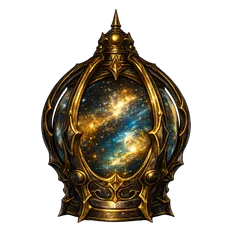
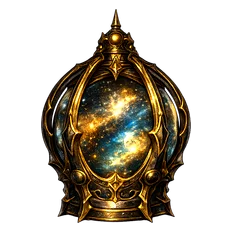
v0.28.2 Sichtbarkeit der Insignien: heller gebacken (+16%), gelb-weisser Schein ueberall, Dock/Chips/Splitter/Brettstern groesser; Schatzkammer ohne Glasur-Schleier, Fast-Weiss-Konturen auf ruhiges Gold; Brett-Glanz zieht als breites Band uebers Ganze

diff --git a/src/app/ui/icons.jsx b/src/app/ui/icons.jsx
@@ -54,8 +54,9 @@ export function NavIcon({ id, color = "#a9a48e", size = 22 }) {
   const on = color === T.gold;
   return <img src={NAV_ART[id] || NAV_PLAY} alt="" aria-hidden draggable={false}
     style={{ width: size, height: size, display: "block", objectFit: "contain",
-      filter: on ? "drop-shadow(0 1px 2px rgba(0,0,0,.45))"
-                 : "grayscale(.9) brightness(.82) opacity(.72) drop-shadow(0 1px 2px rgba(0,0,0,.45))" }} />;
+      transform: "scale(1.12)", transformOrigin: "center",
+      filter: on ? "drop-shadow(0 0 5px rgba(246,222,150,.65)) drop-shadow(0 1px 2px rgba(0,0,0,.45))"
+                 : "grayscale(.85) brightness(.88) opacity(.78) drop-shadow(0 0 3px rgba(246,222,150,.3)) drop-shadow(0 1px 2px rgba(0,0,0,.45))" }} />;
 }
 
 // ── Currency v3 — an order star and a crowned coin, drawn as insignia rather
@@ -83,14 +84,16 @@ export function EnergyIc({ size = 18, style }) {
 
 export function SkillStar({ size = 18, style }) {
   return <img src={IC_SKILL} alt="" aria-hidden draggable={false}
-    style={{ width: size, height: size, display: "inline-block", verticalAlign: "-0.14em",
-      objectFit: "contain", ...style }} />;
+    style={{ width: size, height: size, display: "inline-block", verticalAlign: "-0.16em",
+      transform: "scale(1.18)", transformOrigin: "center", objectFit: "contain",
+      filter: "drop-shadow(0 0 4px rgba(246,222,150,.55)) drop-shadow(0 1px 1px rgba(0,0,0,.4))", ...style }} />;
 }
 
 export function GoldCoin({ size = 18, style, shine = false }) {
   return <img src={IC_COIN} alt="" aria-hidden draggable={false}
-    style={{ width: size, height: size, display: "inline-block", verticalAlign: "-0.14em",
-      objectFit: "contain", ...style }} />;
+    style={{ width: size, height: size, display: "inline-block", verticalAlign: "-0.16em",
+      transform: "scale(1.18)", transformOrigin: "center", objectFit: "contain",
+      filter: "drop-shadow(0 0 4px rgba(246,222,150,.55)) drop-shadow(0 1px 1px rgba(0,0,0,.4))", ...style }} />;
 }
 
 // ── small in-house UI glyphs (v0.19): every icon drawn, no emoji anywhere ────
@@ -229,14 +232,15 @@ const G = ({ id }) => (
   </defs>
 );
 const drop = { filter: "drop-shadow(0 1px 1.5px rgba(0,0,0,.55))" };
+const glowDrop = { filter: "drop-shadow(0 0 5px rgba(246,222,150,.6)) drop-shadow(0 1px 1.5px rgba(0,0,0,.55))" };
 
-export function CoinIc({ size = 15 }) {
+export function CoinIc({ size = 18 }) {
   return <img src={IC_COIN} alt="" aria-hidden draggable={false}
-    style={{ width: size, height: size, display: "block", objectFit: "contain", ...drop }} />;
+    style={{ width: size, height: size, display: "block", objectFit: "contain", ...glowDrop }} />;
 }
-export function SkillIc({ size = 15 }) {
+export function SkillIc({ size = 18 }) {
   return <img src={IC_SKILL} alt="" aria-hidden draggable={false}
-    style={{ width: size, height: size, display: "block", objectFit: "contain", ...drop }} />;
+    style={{ width: size, height: size, display: "block", objectFit: "contain", ...glowDrop }} />;
 }
 export function LevelIc({ size = 15 }) {
   return <svg width={size} height={size} viewBox="0 0 22 22" aria-hidden style={{ display: "block", ...drop }}>
@@ -251,9 +255,9 @@ export function LevelIc({ size = 15 }) {
     <path d="M3.2 17.6 L3.2 8.4 L7.6 11.6 L11 4.6 L14.4 11.6 L18.8 8.4 L18.8 17.6 Z" fill="url(#ggLvls)" />
   </svg>;
 }
-export function CrestIc({ size = 15 }) {
+export function CrestIc({ size = 18 }) {
   return <img src={IC_CREST} alt="" aria-hidden draggable={false}
-    style={{ width: size, height: size, display: "block", objectFit: "contain", ...drop }} />;
+    style={{ width: size, height: size, display: "block", objectFit: "contain", ...glowDrop }} />;
 }
 
 /** A folded field map with a waypin — hand-drawn, house gold. */
@@ -405,7 +409,7 @@ export function HourglassGIc({ size = 16 }) {
   </svg>;
 }
 /** A fallen foe's skull, gilded. */
-export function GoldSkullIc({ size = 16 }) {
+export function GoldSkullIc({ size = 19 }) {
   return <img src={IC_SKULL} alt="" aria-hidden draggable={false}
-    style={{ width: size, height: size, display: "block", objectFit: "contain", ...drop }} />;
+    style={{ width: size, height: size, display: "block", objectFit: "contain", ...glowDrop }} />;
 }

diff --git a/src/app/ui/screens/AchievementsScreen.jsx b/src/app/ui/screens/AchievementsScreen.jsx
@@ -98,10 +98,10 @@ export function AchievementsScreen({ profile, dispatch, t, initialOpenId = null 
           // frame rather than a rim of gold.
           padding: ready ? 19 : 16,
           background: "linear-gradient(160deg, rgba(96,74,34,.62), rgba(28,21,11,.95) 62%)",
-          border: `2px solid ${ready ? "#f8ecc0" : "rgba(246,228,162,.78)"}`,
+          border: `1.5px solid ${ready ? "rgba(240,214,138,.8)" : "rgba(214,176,96,.5)"}`,
           boxShadow: ready
-            ? "inset 0 1px 0 rgba(255,248,214,.4), inset 0 0 0 1px rgba(255,240,190,.3), 0 0 30px rgba(240,214,138,.4), " + T.shadow
-            : "inset 0 1px 0 rgba(255,248,214,.28), inset 0 0 0 1px rgba(255,240,190,.16), 0 0 20px rgba(240,214,138,.22), " + T.shadow }}>
+            ? "inset 0 1px 0 rgba(255,248,214,.18), 0 0 26px rgba(240,214,138,.32), " + T.shadow
+            : "inset 0 1px 0 rgba(255,248,214,.1), 0 0 16px rgba(240,214,138,.16), " + T.shadow }}>
           {/* THE GLEAM NOW MOVES: it used to be a fixed band painted across the
               plate. Tapping a plate sends it sweeping once, left to right —
               gold catching the light as the card turns. The key on the wrapper
@@ -144,28 +144,23 @@ export function AchievementsScreen({ profile, dispatch, t, initialOpenId = null 
             // painting now stands at full strength on every plate; what is
             // earned is told by the bar, the diamonds and the tally.
             background: "radial-gradient(circle at 32% 28%, rgba(240,214,138,.5), rgba(36,28,14,.96) 70%)",
-            border: isOpen ? "3px solid #fff6d8" : "2.5px solid #f6e4a2",
+            border: isOpen ? "2.5px solid #e9cf8a" : "2px solid #d9b565",
             boxShadow: isOpen
-              ? "0 0 34px rgba(255,240,190,.75), 0 2px 6px rgba(0,0,0,.6), inset 0 2px 4px rgba(255,252,236,.7)"
-              : "0 0 16px rgba(240,214,138,.55), 0 1px 3px rgba(0,0,0,.55), inset 0 1px 2px rgba(255,250,228,.55)" }}>
+              ? "0 0 30px rgba(255,240,190,.6), 0 2px 6px rgba(0,0,0,.6), inset 0 1px 2px rgba(255,252,236,.3)"
+              : "0 0 14px rgba(240,214,138,.45), 0 1px 3px rgba(0,0,0,.55), inset 0 1px 1px rgba(255,250,228,.25)" }}>
             {ACH_ART[it.id]
               ? <img src={ACH_ART[it.id]} alt="" draggable={false} decoding="async"
                   style={{ width: "100%", height: "100%", objectFit: "cover", display: "block",
                     // the paintings came out of the forge a shade dim for a
                     // treasury: lifted, warmed and given a touch more gold
                     filter: isOpen
-                      ? "brightness(1.5) saturate(1.34) contrast(1.08) sepia(.2)"
-                      : "brightness(1.28) saturate(1.22) sepia(.14)" }} />
+                      ? "brightness(1.58) saturate(1.3) contrast(1.1) sepia(.14)"
+                      : "brightness(1.38) saturate(1.22) contrast(1.06) sepia(.1)" }} />
               : <AchIcon id={it.id} color={isOpen ? "#fff6d8" : "#f6e4a2"} size={isOpen ? 52 : 28} />}
-            {/* A GLAZE OF GOLD over the painting: a warm wash lifts it into the
-                treasury's own metal, and a soft highlight rides the upper left
-                where the candle stands — the plate reads as polished, not flat. */}
-            <span aria-hidden style={{ position: "absolute", inset: 0, borderRadius: "50%", pointerEvents: "none",
-              background: "radial-gradient(circle at 30% 24%, rgba(255,248,214,.42), rgba(255,226,150,.14) 42%, rgba(120,84,20,.16) 78%, rgba(60,40,10,.28) 100%)",
-              mixBlendMode: "screen", opacity: isOpen ? 0.95 : 0.7 }} />
-            <span aria-hidden style={{ position: "absolute", inset: 0, borderRadius: "50%", pointerEvents: "none",
-              background: "linear-gradient(150deg, rgba(255,252,236,.5) 4%, rgba(255,252,236,0) 34%)",
-              opacity: isOpen ? 0.8 : 0.55 }} />
+            {/* NO GLAZE ANY MORE. The gold wash and the corner light that used
+                to ride ON TOP of the painting read as a milky film — the
+                emblems looked veiled. The paintings now stand bare and clear;
+                brightness lives in the image filter alone. */}
           </div>
           </div>
           <div style={{ flex: 1, minWidth: 0 }}>

diff --git a/src/app/App.jsx b/src/app/App.jsx
@@ -323,7 +323,7 @@ export default function App() {
         borderRadius: 14, cursor: "pointer", fontFamily: "inherit",
         padding: wide ? "11px 14px" : "9px 4px 8px", color: on ? T.goldBright : T.faint,
         transition: "background .18s, color .18s" }}>
-        <NavIcon id={tb.id} color={on ? T.gold : T.faint} size={wide ? 21 : 22} />
+        <NavIcon id={tb.id} color={on ? T.gold : T.faint} size={wide ? 25 : 26} />
         <span className="gg-serif" style={{ fontSize: wide ? 13 : 9.5, fontWeight: 700, marginTop: wide ? 0 : 3,
           letterSpacing: ".09em", textTransform: "uppercase" }}>{t(tb.key)}</span>
         {badge && <span style={{ position: "absolute", top: wide ? 7 : 4, right: wide ? 8 : "calc(50% - 17px)",
@@ -338,13 +338,13 @@ export default function App() {
     <span title={title} className="gg-serif" style={{ display: "inline-flex", alignItems: "center", gap: 6, padding: "5px 10px",
       borderRadius: 10, background: "linear-gradient(172deg, rgba(240,206,122,.13), rgba(240,206,122,.05))",
       border: "1px solid rgba(214,176,96,.5)", boxShadow: "inset 0 0.5px 0 rgba(255,243,196,.35), 0 1px 4px rgba(0,0,0,.35)",
-      color: T.goldBright, fontSize: 12.5, fontWeight: 700, letterSpacing: ".04em", whiteSpace: "nowrap",
+      color: T.goldBright, fontSize: 13.5, fontWeight: 700, letterSpacing: ".04em", whiteSpace: "nowrap",
       fontVariantNumeric: "tabular-nums" }}>{icon} {val}</span>
   );
   const currencyRow = (
     <div style={{ display: "flex", flexWrap: "wrap", gap: 6, flex: "0 0 auto", alignItems: "center", justifyContent: "flex-end" }}>
-      {coinChip(<CoinIc />, profile.gold || 0, t("army.balance"))}
-      {coinChip(<CrestIc />, retinueScore(profile), t("online.score"))}
+      {coinChip(<CoinIc size={20} />, profile.gold || 0, t("army.balance"))}
+      {coinChip(<CrestIc size={20} />, retinueScore(profile), t("online.score"))}
     </div>
   );
   const headerBar = (

diff --git a/test_ui.jsx b/test_ui.jsx
@@ -233,7 +233,10 @@ const star = (m) => m.includes(IC_SPELLSTAR.slice(40, 104));
   // the picture showed at all.
   ok("no emblem is greyed or dimmed", !bare.includes("grayscale") && !rich.includes("grayscale"));
   ok("every emblem is drawn at full strength", (bare.match(/<img/g) || []).length >= 14);
-  ok("the rim is drawn strongly enough to read", bare.includes("2.5px solid #f6e4a2"));
+  // the rim was tamed on request: quiet gold instead of near-white — it must
+  // still be there, just no longer shouting
+  ok("the rim is drawn strongly enough to read", bare.includes("2px solid #d9b565"));
+  ok("the near-white rim is gone for good", !bare.includes("#f6e4a2") && !bare.includes("#fff6d8"));
 }
 
 // ── 10. THE CHRONICLE ───────────────────────────────────────────────────────

diff --git a/src/app/ui/board/BoardView.jsx b/src/app/ui/board/BoardView.jsx
@@ -546,8 +546,8 @@ export function BoardView({ state, onMove, interactive, lastMove, theme = null, 
             <div style={{ position: "absolute", left: "-60%", top: "-60%", width: "220%", height: "220%",
               "--sx0": `${(-wave.dx * 55).toFixed(1)}%`, "--sy0": `${(wave.dy * 55).toFixed(1)}%`,
               "--sx1": `${(wave.dx * 55).toFixed(1)}%`, "--sy1": `${(-wave.dy * 55).toFixed(1)}%`,
-              background: `linear-gradient(${g.toFixed(0)}deg, transparent 42%, rgba(242,217,140,.04) 47%, rgba(242,217,140,.10) 50%, rgba(242,217,140,.04) 53%, transparent 58%)`,
-              animation: "ggSweep 3.6s ease-in-out both" }} />
+              background: `linear-gradient(${g.toFixed(0)}deg, transparent 18%, rgba(242,217,140,.05) 34%, rgba(242,217,140,.13) 50%, rgba(242,217,140,.05) 66%, transparent 82%)`,
+              animation: "ggSweep 4.6s ease-in-out both" }} />
           </div>;
         })()}
       </div>

diff --git a/src/app/ui/screens/ArmyScreen.jsx b/src/app/ui/screens/ArmyScreen.jsx
@@ -971,7 +971,7 @@ function GearPanel({ profile, dispatch, t, en, initialGearInfo = null }) {
           // a ware like any other now — what is special about it (the ration
           // per chapter) is said in its sheet, where it belongs.
           return <div onClick={() => setGearInfo("shard")} style={{ display: "flex", alignItems: "center", gap: 10, cursor: "pointer" }}>
-            <span style={{ width: 24, display: "grid", placeItems: "center" }}><img src={imgShard} alt="" aria-hidden draggable={false} style={{ width: 22, height: 22, objectFit: "contain", display: "block", filter: "drop-shadow(0 1px 2px rgba(0,0,0,.45))" }} /></span>
+            <span style={{ width: 26, display: "grid", placeItems: "center" }}><img src={imgShard} alt="" aria-hidden draggable={false} style={{ width: 24, height: 24, objectFit: "contain", display: "block", filter: "drop-shadow(0 0 5px rgba(246,222,150,.55)) drop-shadow(0 1px 2px rgba(0,0,0,.45))" }} /></span>
             <div style={{ flex: 1, minWidth: 0 }}>
               <div style={{ fontSize: 13, fontWeight: 800 }}>
                 {en ? "Star shard" : "Sternensplitter"}
@@ -1048,7 +1048,7 @@ function GearPanel({ profile, dispatch, t, en, initialGearInfo = null }) {
             background: `linear-gradient(172deg, ${T.panel2}, ${T.panel})`, border: "1px solid rgba(233,210,150,.42)",
             boxShadow: "0 18px 50px rgba(0,0,0,.6)" }}>
             <div style={{ display: "grid", placeItems: "center", marginBottom: 10 }}>
-              {shard ? <img src={imgShard} alt="" aria-hidden draggable={false} style={{ width: 116, height: 116, objectFit: "contain", display: "block", filter: "drop-shadow(0 2px 5px rgba(0,0,0,.5))" }} /> : <ItemIcon id={it.id} size={116} />}
+              {shard ? <img src={imgShard} alt="" aria-hidden draggable={false} style={{ width: 124, height: 124, objectFit: "contain", display: "block", filter: "drop-shadow(0 0 12px rgba(246,222,150,.5)) drop-shadow(0 2px 5px rgba(0,0,0,.5))" }} /> : <ItemIcon id={it.id} size={116} />}
             </div>
             <div className="gg-serif" style={{ fontSize: 19, letterSpacing: ".03em", color: T.goldBright, textAlign: "center" }}>
               {shard ? (en ? "Star shard" : "Sternensplitter") : (en ? it.nameEn : it.nameDe)}

diff --git a/src/app/ui/board/PieceGlyph.jsx b/src/app/ui/board/PieceGlyph.jsx
@@ -82,7 +82,8 @@ const NUM_FONT = "'Spectral', Georgia, serif";
 function SpellStar({ size }) {
   return <img src={IC_SPELLSTAR} alt="" aria-hidden draggable={false}
     style={{ width: size, height: size, display: "block", objectFit: "contain",
-      filter: "drop-shadow(0 0 3px rgba(240,214,138,.85)) drop-shadow(0 1px 1px rgba(0,0,0,.6))" }} />;
+      transform: "scale(1.14)", transformOrigin: "center",
+      filter: "drop-shadow(0 0 4px rgba(246,222,150,.95)) drop-shadow(0 0 9px rgba(240,214,138,.5)) drop-shadow(0 1px 1px rgba(0,0,0,.6))" }} />;
 }
 
 // TWO JEWELS UNDER EVERY FIGHTER: blue attack left, red life right — the same

diff --git a/CHANGELOG.md b/CHANGELOG.md
@@ -1,5 +1,32 @@
 # Changelog — Grand Gambit
 
+## 0.28.2
+
+SICHTBARKEIT FUER DIE INSIGNIEN. Die gemalten Goldstuecke aus 0.28.1 waren
+zu leise -- jetzt treten sie vor:
+
+- HELLER GEBACKEN: alle zehn Bilder laufen neu durch die Werkbank mit
+  +16 Prozent Helligkeit, etwas mehr Saettigung und einer sanften
+  Kontrastkurve -- das Gold traegt jetzt auf dunklem Filz.
+- DER SCHEIN: jedes Insignienbild steht auf einem gelb-weisslichen
+  Lichthauch (warmer drop-shadow-Glow) -- Dock, Kopfchips, Muenzen auf
+  Preisschildern, Skillfunken, Splitter, Brettstern.
+- GROESSER: Dock-Bilder von 22 auf rund 29 Punkt (echte 26 plus sanfte
+  Skalierung), Kopfleisten-Chips von 15 auf 20 mit groesserer Zahl,
+  Muenze und Funke in den Zeilen 18 Prozent groesser, Splitter-Zeile 24,
+  Splitter-Blatt 124, Brettstern 14 Prozent groesser mit doppeltem Schein.
+- DIE SCHATZKAMMER IST WIEDER KLAR: die Gold-Glasur und das Ecklicht,
+  die UEBER den Erfolgs-Gemaelden lagen, sind ersatzlos gestrichen --
+  sie lasen sich als milchiger Schleier. Die Bilder stehen blank und
+  einen Hauch heller.
+- DIE WEISSE KONTUR IST GEZAEHMT: Plattenrand von Fast-Weiss auf ruhiges
+  Gold (1.5px statt 2), Medaillonring von Weissgold auf sattes Gold,
+  die hellen Innenschimmer halbiert.
+- DER GLANZ UEBER DEN BRETTKACHELN ZIEHT JETZT UEBER DAS GANZE: das
+  Lichtband der freundlichen Tische war ein schmaler 16-Prozent-Streifen
+  und las sich als duenne Linie -- jetzt ein breiter, weicher Schein
+  (rund zwei Drittel der Laufflaeche), etwas kraeftiger und langsamer.
+
 ## 0.28.1
 
 DIE GEMALTEN INSIGNIEN. Zehn Goldbilder aus der Werkstatt ersetzen die